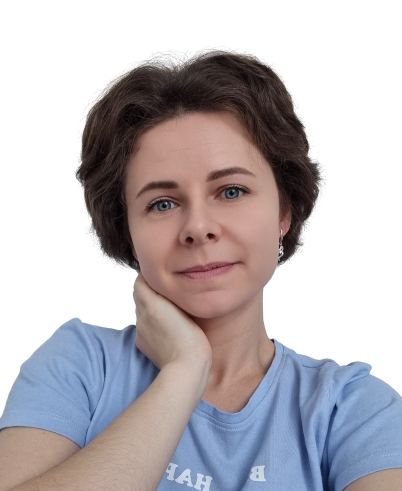
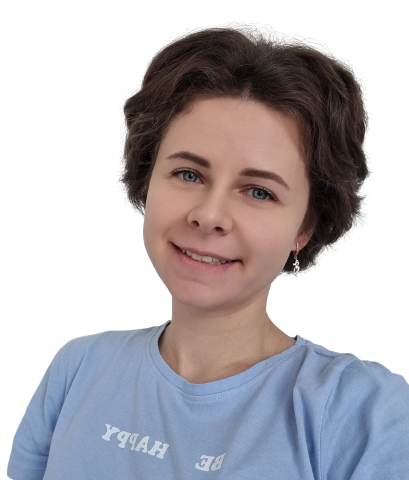
second page dev

diff --git a/index.html b/index.html
@@ -51,7 +51,7 @@
                 </div>
                 <div class="wrapper-heading-second">
                     <div class="wrapper-heading-second-content">
-                        <img class="ava" src="images/logo.jpg">
+                        <img class="ava" src="images/ava1.png">
                         <div class="back"></div>
                     </div>
                     

diff --git a/styles.css b/styles.css
@@ -162,7 +162,8 @@ display: none;
     display: block;
     justify-content: center;
     width:60%;
-    
+    border-radius: 100%;
+    border: 1px solid;
     margin: 0 auto;
     z-index: 10;
 }
